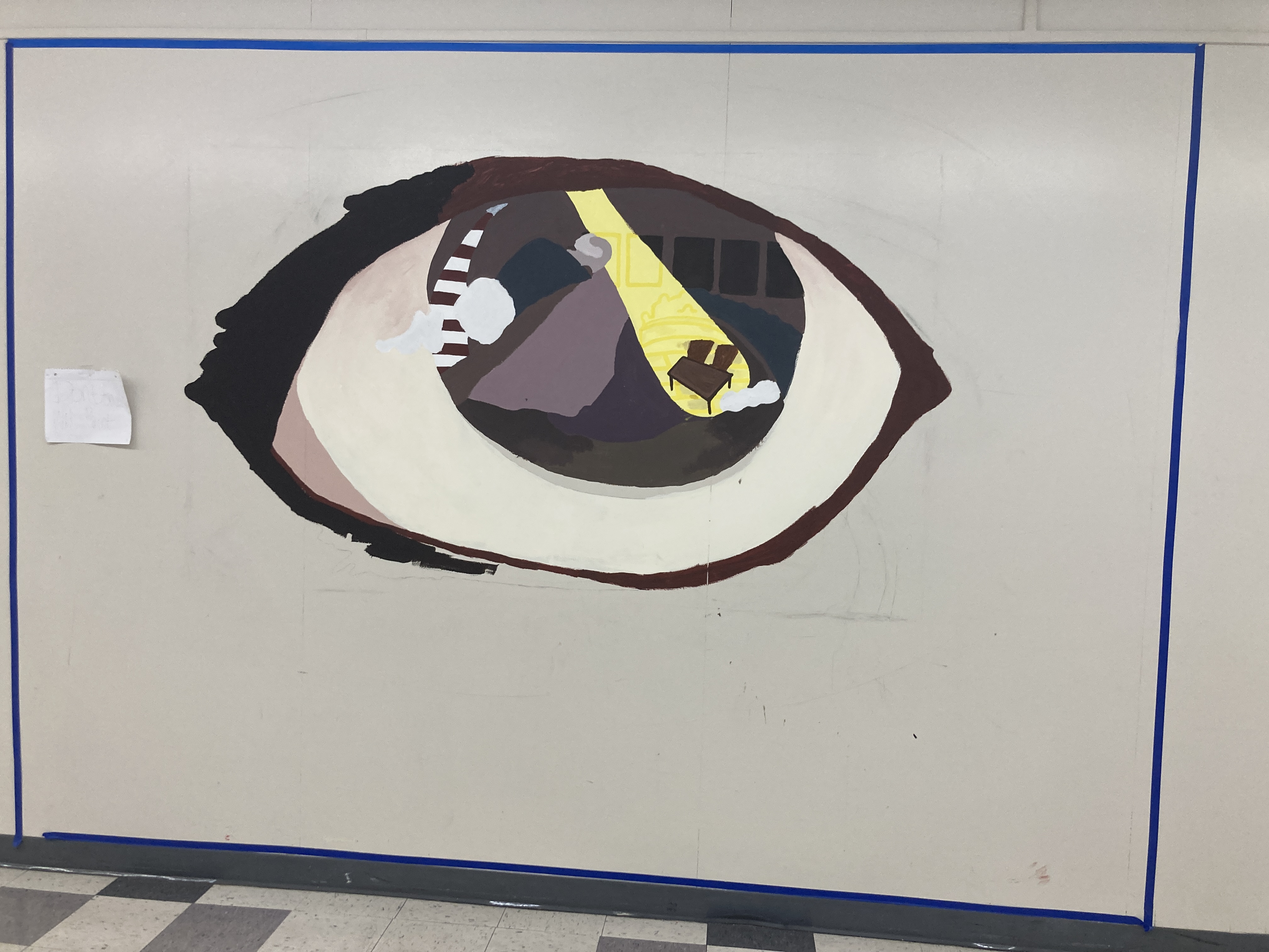
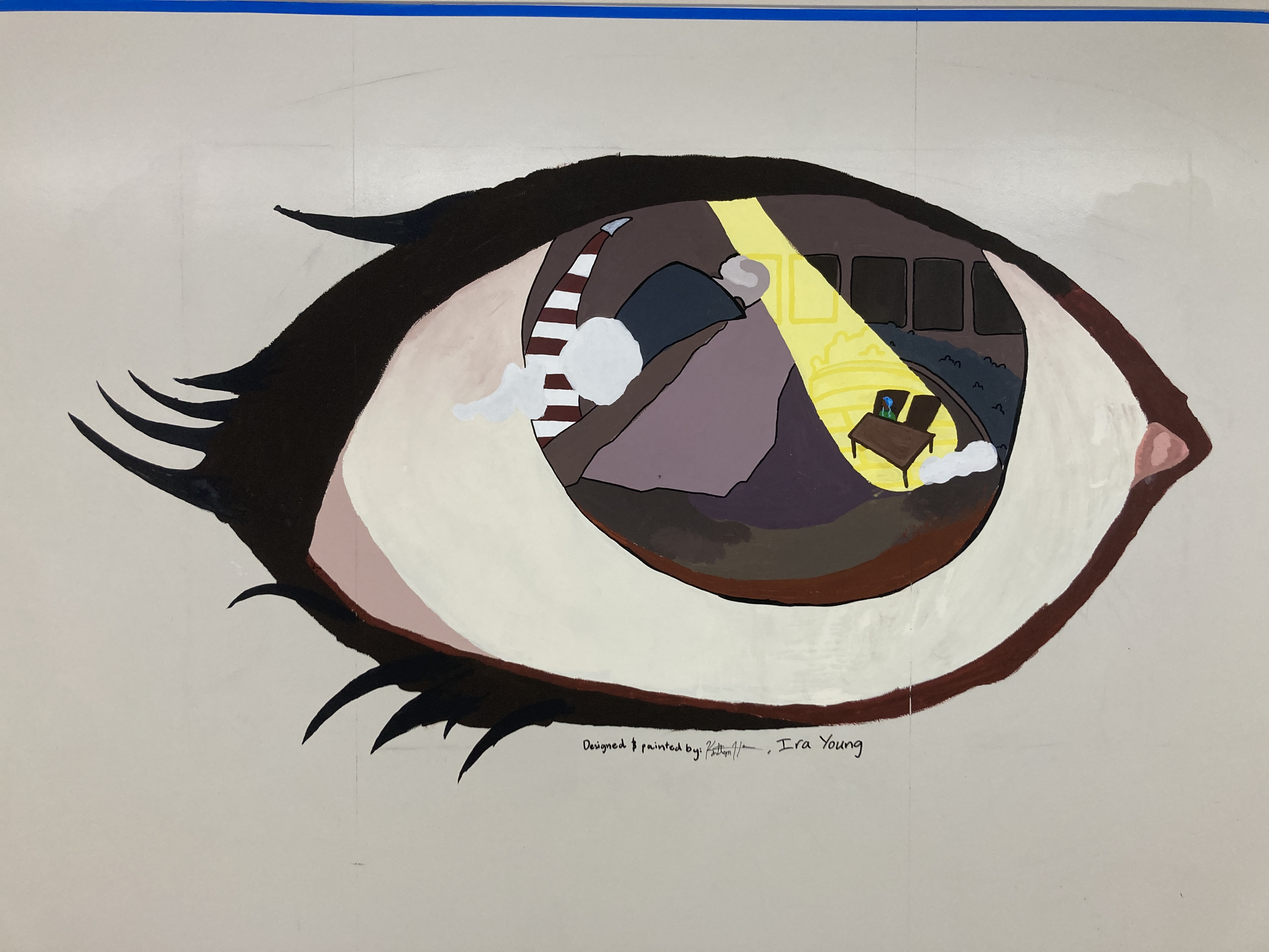
quick mural map update

diff --git a/graphicDesign/muralArchive/map.html b/graphicDesign/muralArchive/map.html
@@ -619,7 +619,8 @@
        + '    • Frances Blake\n'
        + '    • Oban Vogelezang-Liu\n'
        + '    • Scarlett Travis\n'
-       + '    • Kristina Kunik-Arciniega', 'images/ejl.jpg')"
+       + '    • Kristina Kunik-Arciniega\n'
+       + '    • Zac Paskalev', 'images/ejl.jpg')"
     ></a>
     <img class="photo" src="previews/ejl.jpg" alt=""/>
 </div>
